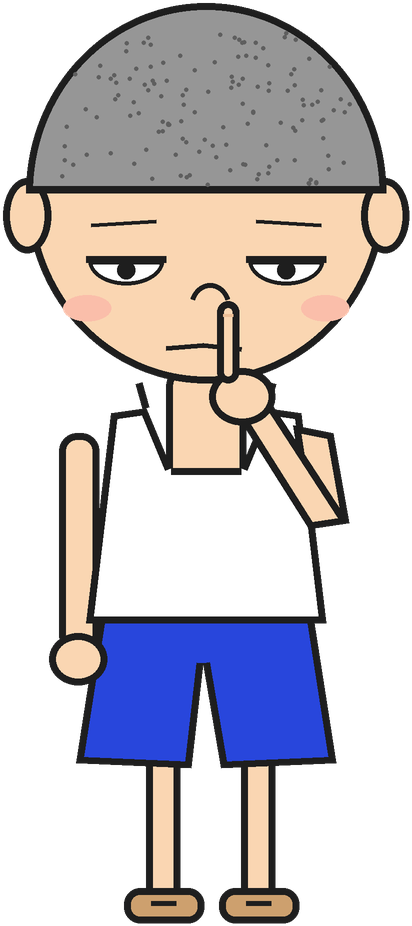
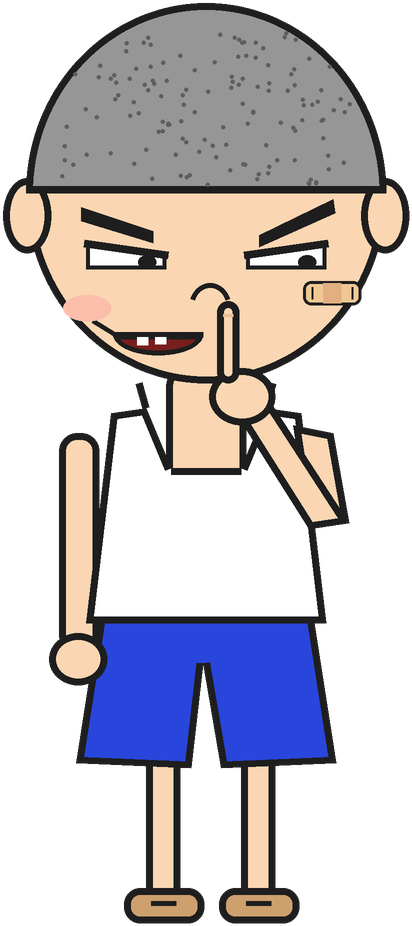
おじゃまキッズの顔を悪ガキっぽくする（いじわるな眉・横目・にやっとした口・すきっ歯・ばんそうこう）
Claude-Session: https://claude.ai/code/session_01LXuZUW9ir8YsyfH7SfvfCN

Changed region(s): [[0.1748, 0.2117, 0.5243, 0.3931], [0.5825, 0.2117, 0.8738, 0.3629]]

diff --git a/docs/決めたこと.md b/docs/決めたこと.md
@@ -81,7 +81,7 @@
 - 2026-11-20 プログラマー: すいか・ずわいかに・なまはむ以外の商品を全部 1.2 倍の大きさにする（`商品ステータス.csv`: 3Dモデルの商品は「モデルの大きさ」、画像・仮の図形の商品は「大きさ」を 1.2 倍）
 - 2026-11-20 プログラマー: キックの足は、置き場所から相手の側へ横に伸ばして引っ込める今の動き（動画で確認）のままでいい。棚の画面には出さず、蹴られた人の袋の画面に出して、相手の袋を蹴っているように見せる（`Kick On Bag Screen`）
 - 2026-11-24 プログラマー: 妨害要素「おじゃまキッズ」: 試合中の決まった時間に、小さい子どもが 2P の画面の右から出て、棚の画面へ行き、2P の袋に勝手に商品を入れて、1P の画面を横切りながら 1P の袋にも1つ入れる。商品は全部の商品からランダム → 2026-11-24 プログラマー: 棚に今並んでいる商品からランダムに取ってくる（棚から無くなる）
-- 2026-11-24 プログラマー: おじゃまキッズの絵は、プログラマーの画像を差し替えるのではなく、こんな見た目の子どもを作る（坊主頭・やる気のない半目・鼻に指・白いランニング・青い半ズボン・サンダル）→ Claude がスクリプトで描いた `Assets/Kid.png`
+- 2026-11-24 プログラマー: おじゃまキッズの絵は、プログラマーの画像を差し替えるのではなく、こんな見た目の子どもを作る（坊主頭・鼻に指・白いランニング・青い半ズボン・サンダル。顔は悪ガキっぽく: いじわるな太い眉・ずる賢そうな横目・にやっとした口・すきっ歯・ほっぺにばんそうこう）→ Claude がスクリプトで描いた `Assets/Kid.png`
 - 2026-11-24 プログラマー: キックの足は棚の画面を飛ばない。2P のキックは 1P の画面の右下の角・1P のキックは 2P の画面の左下の角に出て、相手の袋を蹴る
 - 2026-11-20 プログラマー: キックの足は、手前から奥へ向けて袋を蹴る形にする（`Kick Foot From Front`。袋の画面の下から上げる）
 - 2026-11-20 プログラマー: キックの足は全体が見えなくていい（袋が蹴られたと分かればいい）。画面の外寄り（`Kick Foot Rest Position` X 0.5）から出して、足先が袋のふちに当たるまで伸ばす（`Kick Foot Reach To Edge` ON）
